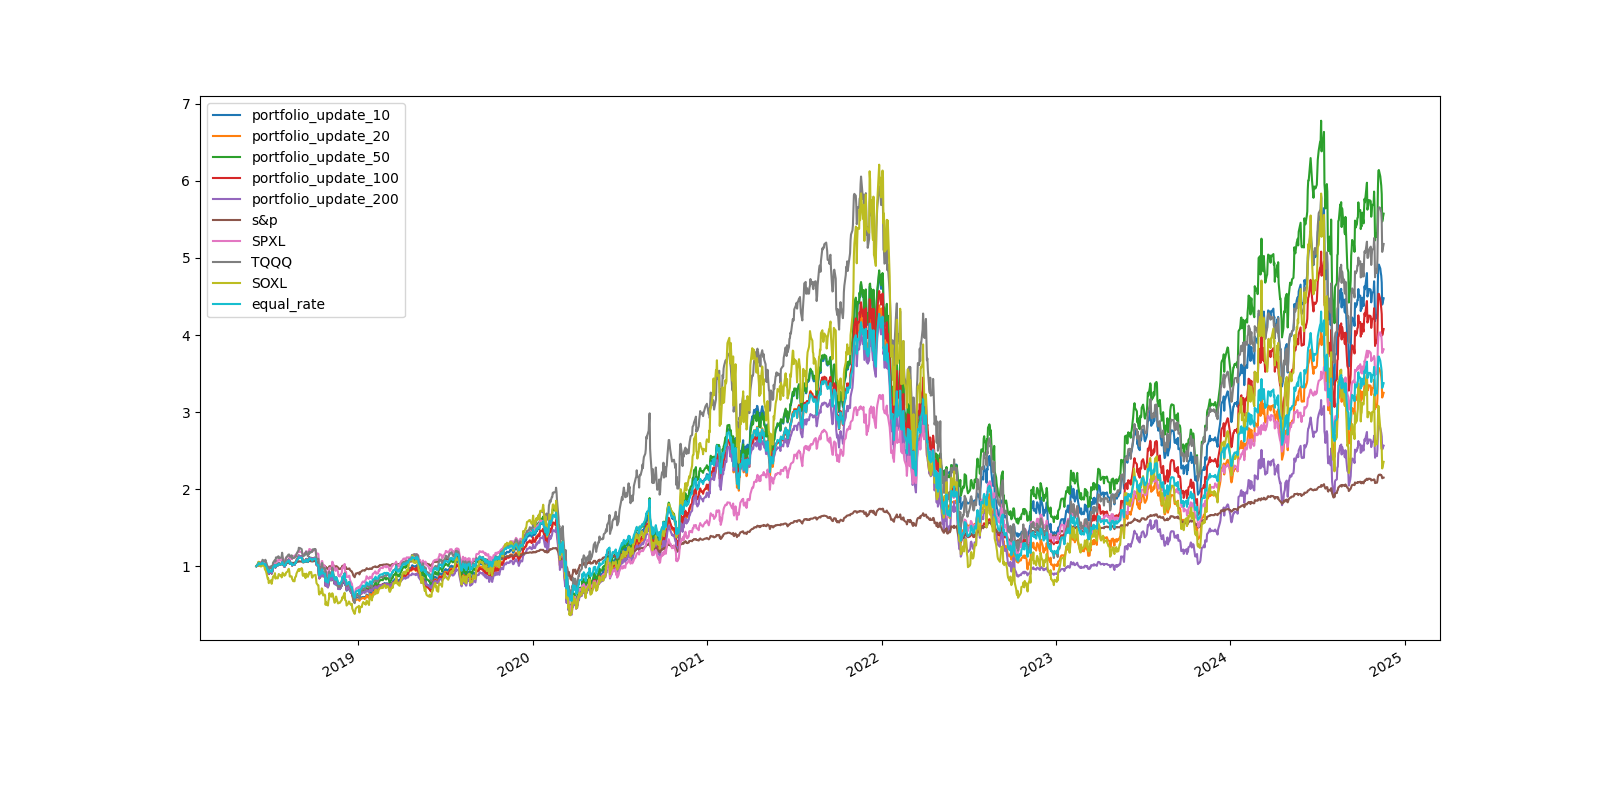
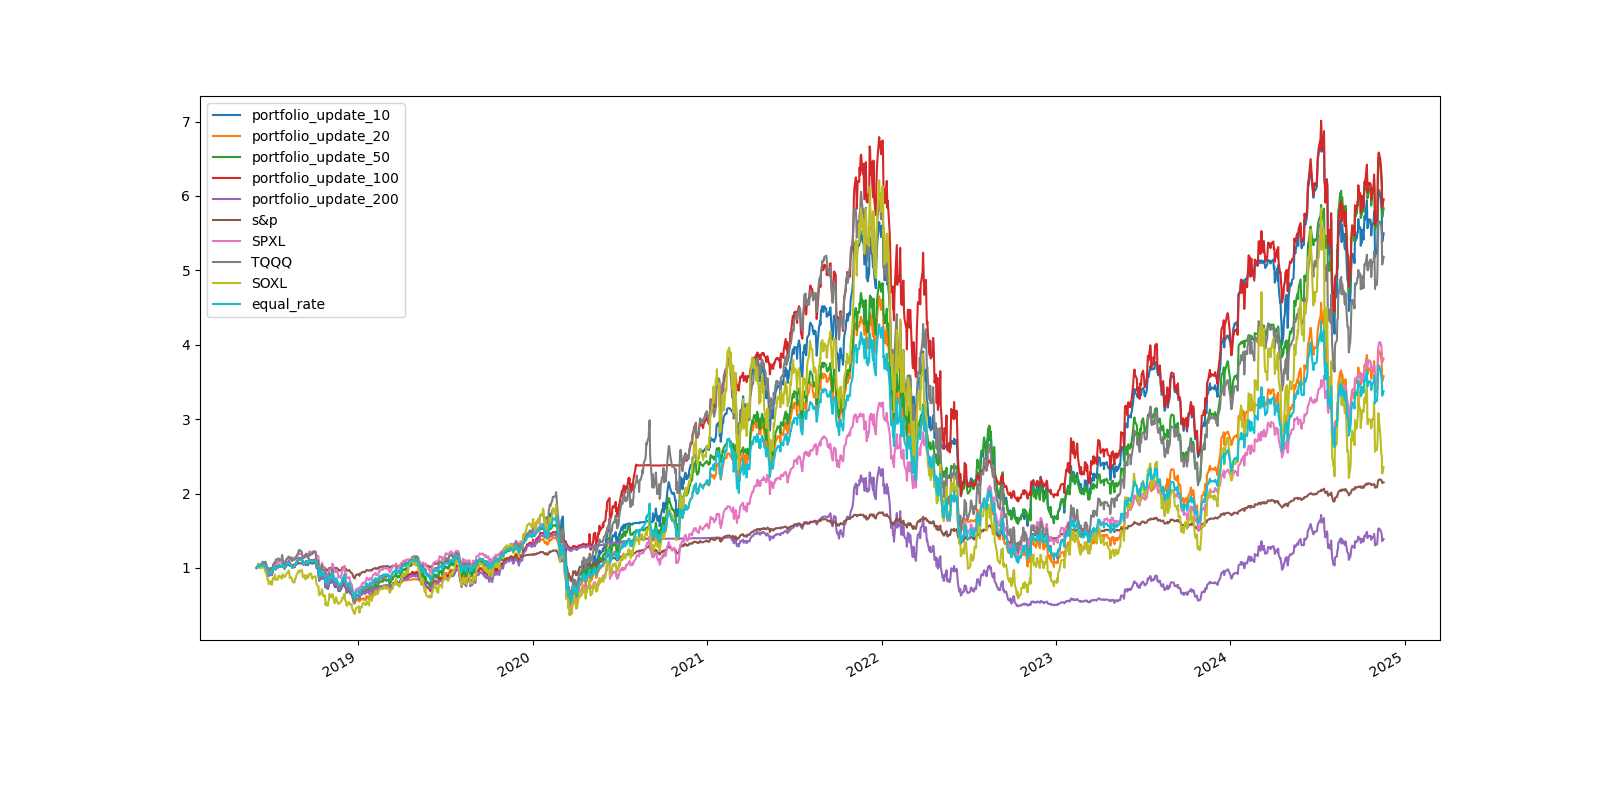
update win rate computation

Changed region(s): [[0.1562, 0.1562, 0.875, 0.7812]]

diff --git a/utils.py b/utils.py
@@ -7,6 +7,7 @@ import json
 
 import numpy as np
 import scipy
+import scipy.stats
 import seaborn as sns
 import pandas as pd
 import matplotlib.pyplot as plt
@@ -16,6 +17,8 @@ import xml.etree.ElementTree as ET
 import urllib.request as url_request
 import urllib.parse as url_parse
 import urllib.error as url_error
+
+from hmmlearn import hmm
 
 ############
 ### FRED ###
@@ -544,6 +547,8 @@ def get_fred_ticker(ticker: str):
         return "DGS10"
     elif ticker.lower() == "m2":
         return "M2SL"
+    elif ticker.lower() == "jolt":
+        return "JTSJOL"
 
 
 def get_fred_series(ticker: str, start_date: str, end_date: str):
@@ -858,7 +863,7 @@ def sell(portfolio: Dict, transaction_fee_rate) -> Dict:
     return tickers, optimal_w, cash
 
 
-def compute_win_rate(yf_df: pd.DataFrame, ticker: str) -> float:
+def compute_percentile_by_percent_change(yf_df: pd.DataFrame, ticker: str) -> float:
     # empirical wining rate of the previous period
     list_prob_win = []
     for window in [10, 20, 50, 100]:
@@ -869,7 +874,7 @@ def compute_win_rate(yf_df: pd.DataFrame, ticker: str) -> float:
     return np.mean(list_prob_win)
 
 
-def compute_confidence(yf_df: pd.DataFrame, ticker: str, key="Close"):
+def compute_trend(yf_df: pd.DataFrame, ticker: str, key="Close"):
     list_confidence = []
     for window in [10, 20, 50, 100]:
         df_ma = yf_df[key].rolling(window=window).mean().dropna()
@@ -901,18 +906,12 @@ def set_target_weights(
 
     weights = {}
     for ticker in df[key].columns:
-        prob_win = compute_win_rate(df, ticker)
+        win_rate = compute_win_rate_by_ratio_density_function(df, ticker)
+        weight = np.clip(2 * win_rate, 0, 1)  # maintain at half
 
-        # reversed optimal weight == 2*(1-prob_win)
-        bet_ratio = 1 - kelly(
-            win_rate=prob_win,
-            net_profit=1,
-            net_loss=1,
-        )
+        trend = compute_trend(df, ticker)
 
-        confidence = compute_confidence(df, ticker)
-
-        weights[ticker] = bet_ratio * confidence
+        weights[ticker] = weight * trend
 
     sum_weights_assets = sum(weights.values())
     if sum_weights_assets > 1:
@@ -1082,6 +1081,44 @@ def need_to_update_portfolio(date: datetime.date, rebalacing_period: int):
     return stale or all_cash(portfolio)
 
 
+def compute_win_rate_by_ratio_density_function(
+    yf_df: pd.DataFrame, ticker: str
+) -> float:
+    df_mean = yf_df["Close"][ticker].to_frame("price_ratio")
+    df_mean["price_ratio"] /= df_mean["price_ratio"].rolling(window=100).mean()
+    df_mean.dropna(inplace=True)
+
+    p = density_function(list(df_mean["price_ratio"]))
+
+    return win_rate_given_density_function(p, df_mean["price_ratio"].iloc[-1])
+
+
+def compute_win_rates_assets(
+    start_date: str, end_date: str = None, key: str = "Close", ma_window: int = 100
+):
+    if end_date is None:
+        start_date, end_date = period(start_date)
+
+    tickers = get_ticker("assets")
+    df = download(tickers, start_date, end_date)
+
+    win_rates = {}
+    for ticker in tickers:
+        df_mean = df[key][ticker].to_frame("price_ratio")
+        df_mean["price_ratio"] /= (
+            df_mean["price_ratio"].rolling(window=ma_window).mean()
+        )
+        df_mean.dropna(inplace=True)
+
+        p = density_function(list(df_mean["price_ratio"]))
+
+        win_rates[ticker] = win_rate_given_density_function(
+            p, df_mean["price_ratio"].iloc[-1]
+        )
+
+    return win_rates
+
+
 ###############
 ### Utility ###
 ###############
@@ -1143,7 +1180,7 @@ def simulate_market(yf_df: pd.DataFrame, eval_date, key="Close"):
     )
 
 
-def predict_fourier(x: List, n_predict: int, n_harmonics=50) -> np.ndarray:
+def predict_fourier(x: List, n_predict: int, n_harmonics=5) -> np.ndarray:
     n = len(x)
     x_freq_dom = np.fft.fft(x)
     frequency = np.fft.fftfreq(n)
@@ -1160,6 +1197,41 @@ def predict_fourier(x: List, n_predict: int, n_harmonics=50) -> np.ndarray:
         )
 
     return restored_sig
+
+
+def density_function(x: List[float]):
+    return scipy.stats.gaussian_kde(x)
+
+
+def win_rate_given_density_function(
+    p: callable, x0: float, upper_limit=2, n_samples=1000
+):
+    x = np.linspace(x0, upper_limit, n_samples)
+    return np.sum([(x[i] - x[i - 1]) * p(x[i - 1]) for i in range(1, len(x))])
+
+
+def compute_net_profit_by_density_function(
+    p: callable, x0: float, upper_limit=2, n_samples=1000
+):
+    x = np.linspace(x0, upper_limit, n_samples)
+    return np.sum(
+        [
+            (x[i - 1] / x0 - 1) * (x[i] - x[i - 1]) * p(x[i - 1])
+            for i in range(1, len(x))
+        ]
+    )
+
+
+def compute_net_loss_by_density_function(
+    p: callable, x0: float, lower_limit=0, n_samples=1000
+):
+    x = np.linspace(lower_limit, x0, n_samples)
+    return sum(
+        [
+            (1 - x[i - 1] / x0) * (x[i] - x[i - 1]) * p(x[i - 1])
+            for i in range(1, len(x))
+        ]
+    )
 
 
 ############
@@ -1796,6 +1868,49 @@ def plot_SP500_MOVE(
     plt.savefig(path_savefile)
 
 
+def plot_SP500_JOLT(
+    start_date: str,
+    end_date: str = None,
+    path_savefile: str = "figures/SP500_JOLT.png",
+):
+    if end_date is None:
+        start_date, end_date = period(start_date)
+
+    jolt = get_fred_series("jolt", start_date, end_date).to_frame("JOLT")
+    jolt.index.name = "Date"
+    sp500 = download(["SPY"], start_date, end_date)
+    df = jolt.merge(sp500["Close"]["SPY"].to_frame(), on="Date")
+    df.dropna(inplace=True)
+
+    corr = np.corrcoef(df["SPY"], df["JOLT"])[0, 1]
+    print(f"[All] Correlation between SP500 and JOLT: {corr}")
+
+    # chatgpt debut
+    corr = np.corrcoef(
+        df["SPY"][df["SPY"].index <= "2022-11-30"],
+        df["JOLT"][df["JOLT"].index <= "2022-11-30"],
+    )[0, 1]
+    print(f"[Before chatgpt] Correlation between SP500 and JOLT: {corr}")
+
+    # chatgpt debut
+    corr = np.corrcoef(
+        df["SPY"][df["SPY"].index >= "2022-11-30"],
+        df["JOLT"][df["JOLT"].index >= "2022-11-30"],
+    )[0, 1]
+    print(f"[After chatgpt] Correlation between SP500 and JOLT: {corr}")
+
+    plt.close()
+    fig, ax1 = plt.subplots(figsize=(20, 15))
+    ax1.plot(df["SPY"].index, list(df["SPY"]), color="blue")
+    ax2 = ax1.twinx()
+    ax2.plot(
+        df["JOLT"].index,
+        list(df["JOLT"]),
+        color="red",
+    )
+    plt.savefig(path_savefile)
+
+
 def plot_predict_fourier(
     regression_start_date: str,
     regression_end_date: str = None,
@@ -1871,3 +1986,59 @@ def plot_predict_fourier(
         plt.legend(loc="best")
         plt.title("Fourier Transformation of Price/MA100")
         plt.savefig(f"figures/predict_fourier_{ticker}.png")
+
+
+def plot_predict_hmm(
+    regression_start_date: str,
+    regression_end_date: str = None,
+    test_end_date: str = None,
+    n_predict: int = 100,
+):
+    if regression_end_date is None:
+        assert test_end_date is None
+        regression_end_date = datetime.now().strftime("%Y-%m-%d")
+        test_end_date = (datetime.now() + timedelta(days=n_predict)).strftime(
+            "%Y-%m-%d"
+        )
+
+    tickers = ["SPY", "SPXL", "TQQQ", "SOXL"]
+    for ticker in tickers:
+        df = download([ticker], regression_start_date, test_end_date)
+
+        df_mean = df["Close"][ticker].to_frame()
+        df_mean[ticker] /= df_mean[ticker].rolling(window=100).mean()
+        df_mean_volume = df["Volume"][ticker].to_frame("volume_ratio")
+        df_mean_volume["volume_ratio"] /= (
+            df_mean_volume["volume_ratio"].rolling(window=100).mean()
+        )
+        df_ratio = df_mean.merge(df_mean_volume, on="Date")
+        df_ratio.dropna(inplace=True)
+
+        n_components = 12
+        model = hmm.GaussianHMM(
+            n_components=n_components, covariance_type="full", n_iter=10_000
+        )
+        model.fit(df_ratio)
+        currstate = model.predict(df_ratio)[-1]
+
+        df_mean.dropna(inplace=True)
+        ori_seq = df_mean[ticker]
+        new_dates = pd.date_range(
+            start=(df_mean.index[-1] + timedelta(days=1)).strftime("%Y-%m-%d"),
+            periods=n_predict,
+            freq="D",
+        )
+        extended_index = df_mean.index.append(new_dates)
+        df_mean = df_mean.reindex(extended_index)
+
+        for i in range(5):
+            df_mean.loc[:, f"{ticker}_hmm_{i}"] = list(ori_seq) + list(
+                model.sample(n_predict, currstate=currstate)[0][:, 0]
+            )
+
+        plt.close()
+        df_mean.plot(figsize=(16, 8))
+        plt.xlabel("Date")
+        plt.legend(loc="best")
+        plt.title("Hidden Markov Model of Price/MA100")
+        plt.savefig(f"figures/predict_hmm_{ticker}.png")

diff --git a/plot.py b/plot.py
@@ -18,6 +18,8 @@ from utils import (
     plot_SP500_MOVE,
     plot_SP500_Nasdaq,
     plot_predict_fourier,
+    plot_predict_hmm,
+    plot_SP500_JOLT,
 )
 
 if __name__ == "__main__":
@@ -38,16 +40,20 @@ if __name__ == "__main__":
     ##################
     # plot quarterly #
     ##################
-    # plot_correlation(start_date="2024-01-01", target="sectors")
-    # plot_correlation(start_date="2012-01-01", target="assets")
-    # plot_return_sector(start_date="2000-01-01")
-    # plot_return_etf(start_date="2000-01-01")
-    
+    plot_correlation(start_date="2024-01-01", target="sectors")
+    plot_correlation(start_date="2012-01-01", target="assets")
+    plot_return_sector(start_date="2000-01-01")
+    plot_return_etf(start_date="2000-01-01")
+    plot_SP500_JOLT(start_date="1900-01-01")
+
     ###################
     # plot every week #
     ###################
     plot_return_leverage_with_ma(start_date="2012-01-01")
     plot_predict_fourier(
+        regression_start_date="1900-04-01",
+    )
+    plot_predict_hmm(
         regression_start_date="1900-04-01",
     )
     plot_nasdaq_divided_by_gdp(start_date="1900-01-01")
@@ -79,7 +85,7 @@ if __name__ == "__main__":
     )
     plot_rebalancing_backtest(
         start_date="2016-01-01",
-        end_date="2024-01-01",
+        end_date="2024-11-19",
         path_savefile="backtest_from_20160101.png",
     )
     plot_rebalancing_backtest(

diff --git a/portfolio.py b/portfolio.py
@@ -1,9 +1,11 @@
 from utils import (
     write_new_portfolio,
     compute_budge,
+    compute_win_rates_assets,
 )
 
 if __name__ == "__main__":
+    print("win rate: ", compute_win_rates_assets("1900-01-01"))
     write_new_portfolio(rebalacing_period=10, path_savefile="portfolio.json")
     print(
         compute_budge(total_budget=70_000_000 / 1400, path_portfolio="portfolio.json")
